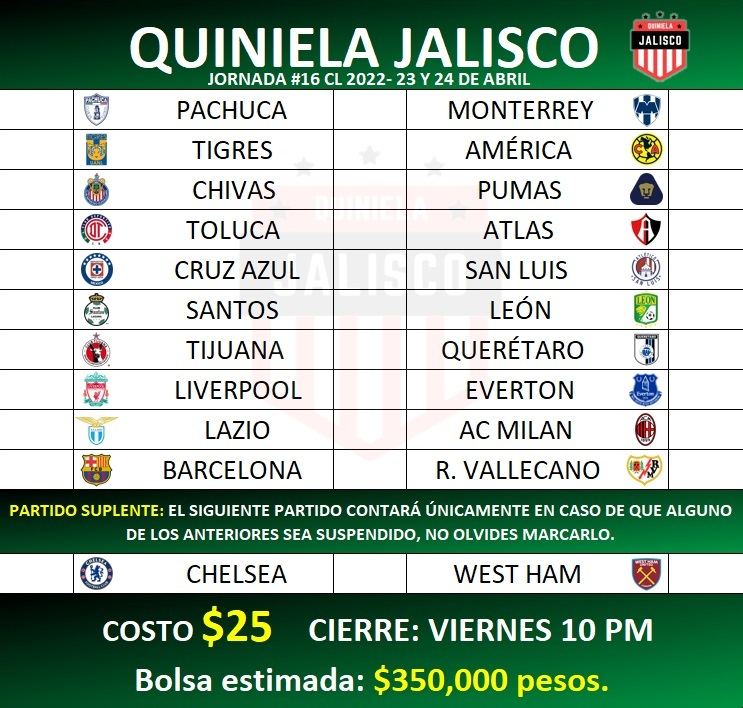
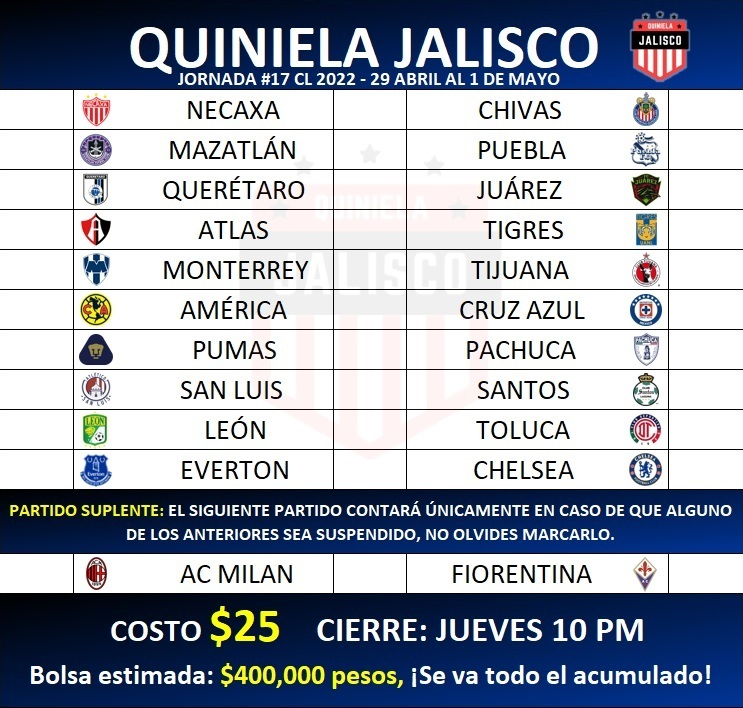
Jornada 17 C22

diff --git a/11/styles11.css b/11/styles11.css
@@ -87,8 +87,8 @@ h1{
     margin-top: 9%;
     border-top: solid 1px black;
     border-radius: 0 0 14px 14px;
-    background: -webkit-linear-gradient(0.53turn, rgb(0,113,51)  ,rgb(0,0,0) 80%);
-    background: linear-gradient(0.53turn, rgb(0,113,51)  ,rgb(0,0,0) 80%);
+    background: -webkit-linear-gradient(0.53turn, rgb(0,40,115)  ,rgb(0,0,0) 80%);
+    background: linear-gradient(0.53turn, rgb(0,40,115)  ,rgb(0,0,0) 80%);
     font-size: x-large;
     text-shadow: 2px 2px 4px black;
 }
@@ -255,8 +255,9 @@ h6{
 }
 
 #cantidad:before{
-    content:'$350,000 pesos';
+    content:'$400,000 pesos, \A ¡Se reparte todo el acumulado!';
     color: yellow;
+    white-space:pre;
 }
 
 
